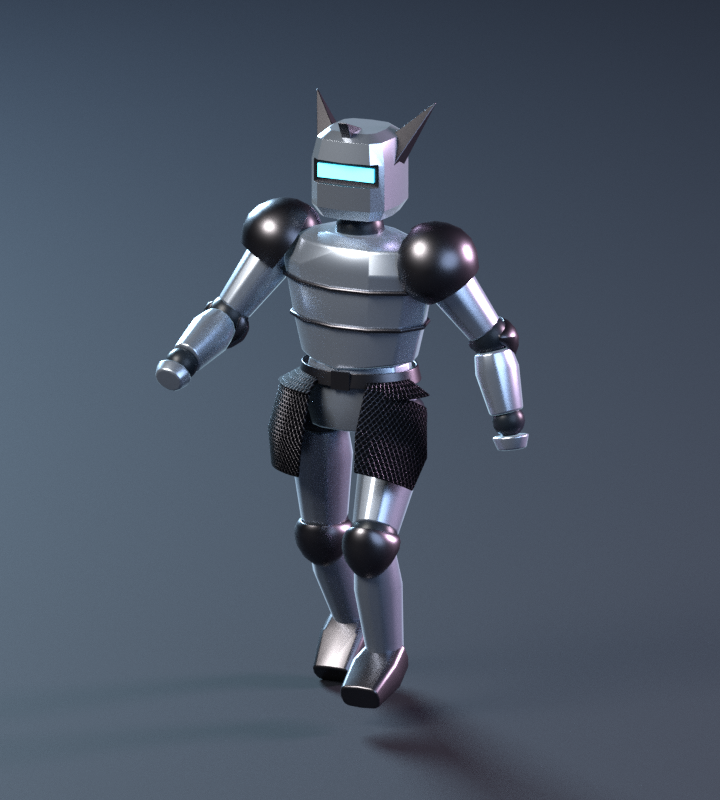
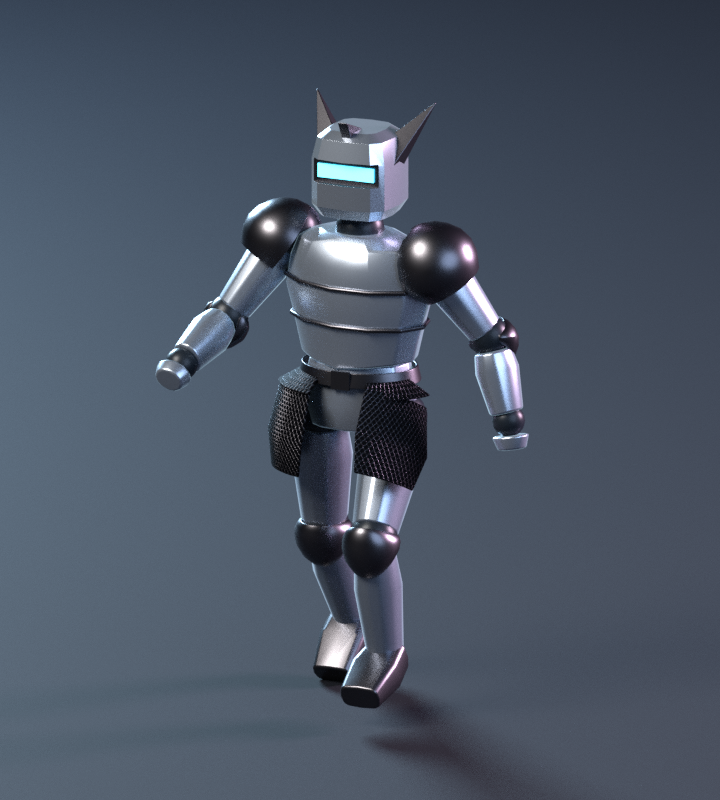
feat: widest breastplate at heart height
Move the breastplate's widest and deepest ring down to heart height
(z 1.30) and taper it gently up to the shoulders, so it reads as a rib
cage rather than widening right under the shoulders.

Changed region(s): [[0.3972, 0.25, 0.55, 0.375]]

diff --git a/dev-samples/3d-stage1/rigged-armor/build.py b/dev-samples/3d-stage1/rigged-armor/build.py
@@ -328,8 +328,9 @@ BELT_RX, BELT_RY = (r + .004 for r in hip_radius(BELT_Z))
 
 # Breastplate rings on the chest bone: (distance along bone, half-width,
 # half-depth); the plate is then widened by CHEST_WIDEN.
-CHEST_RINGS = [(-.085, .175, .13), (.04, .205, .145), (.20, .235, .16),
-               (.27, .20, .13), (.30, .115, .09)]
+# Widest at heart height (z 1.30), narrowing gently up to the shoulders.
+CHEST_RINGS = [(-.085, .175, .13), (.04, .205, .145), (.12, .225, .16),
+               (.21, .213, .148), (.27, .19, .125), (.30, .115, .09)]
 CHEST_WIDEN = 1.1
 
 

diff --git a/dev-samples/3d-stage1/rigged-armor/README.md b/dev-samples/3d-stage1/rigged-armor/README.md
@@ -43,6 +43,7 @@ Rotation で回転させる。回転はボーンのローカル座標。
 丸めた兜の角は角の四角い付け根の下で内側へ逃げるため、角を軸に沿って兜の中へ6cm延ばし、
 見える部分の形を変えずに付け根を埋めている。
 胸甲は腹部まで伸ばし、正面の下端は中央が少し下がる浅いV字にしている。
+幅と厚みは心臓の高さ（z 1.30）で最大になり、肩に向かってゆるやかに細くなる。
 胸甲には heroic の主人公と同じく、黒い鉄の細い丸棒の輪を2本巻いている（`chest` に固定）。
 輪は胸甲の12角の断面に沿い、半分ほど埋まる。高さはベルトから肩までの比率を heroic に合わせた。
 腰甲の上部、胸甲の裾の下に黒い鉄の平たいベルト（幅約4.5cm）を巻いている。
